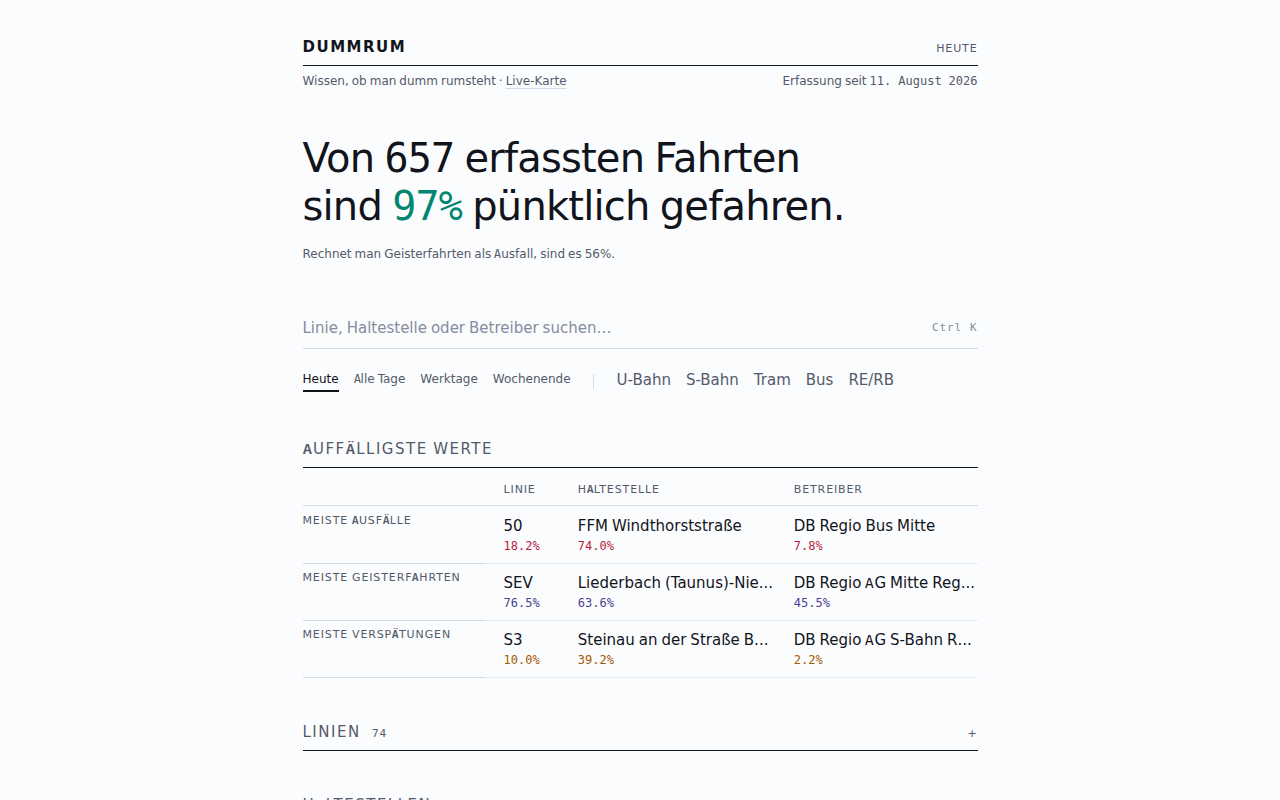
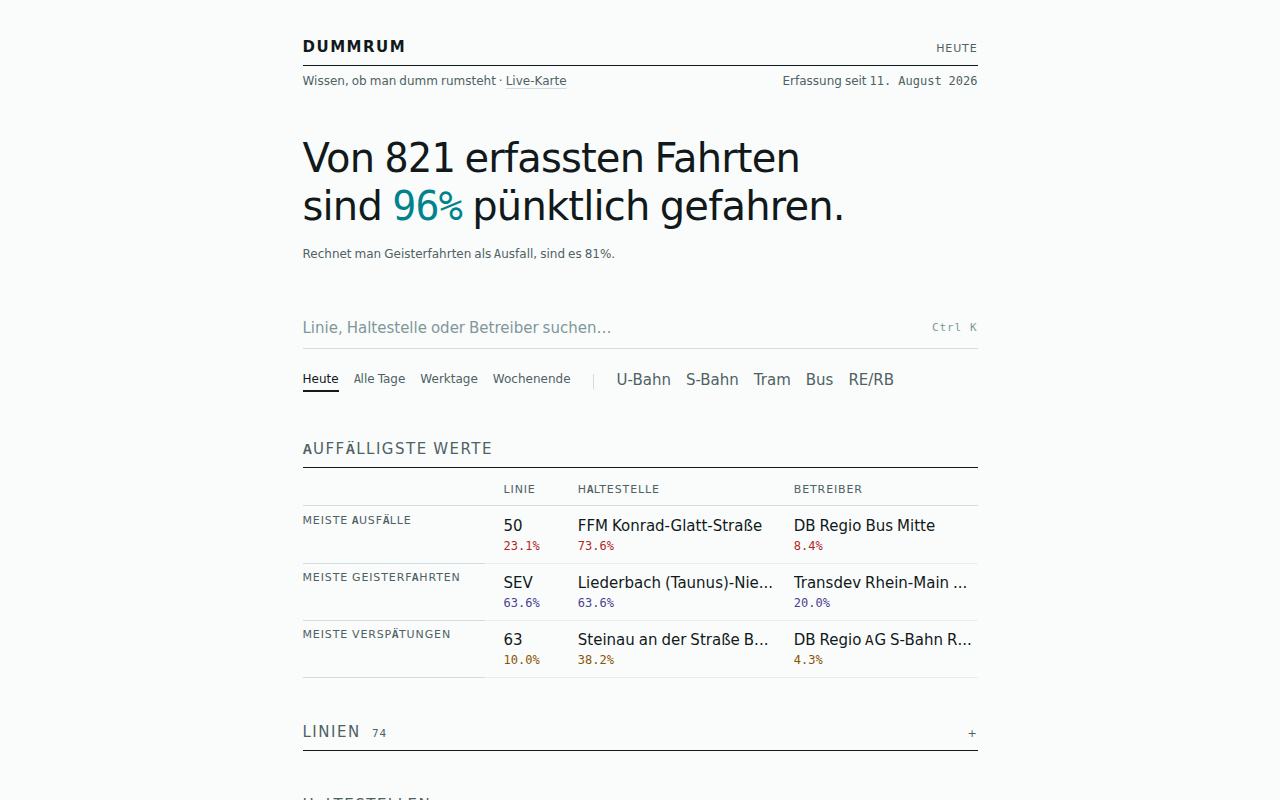
style: lead with the VGF teal instead of the RMV blue
VGF runs the U-Bahn and the trams this site watches most closely, so their
house colour is the more honest one to wear. Taken from their published
tokens rather than sampled off a screenshot: --bs-light becomes --surface,
--bs-primary becomes the "good" verdict, and the greys pick up the same
teal cast.

The accent is --bs-dark (#006265), not --bs-primary (#00838c). The primary
teal measures 4.41:1 on this paper, which fails AA for body text, and links
here are body text. The deeper teal is the same hue at 6.95. --bs-primary
still carries the "good" verdict, where it only ever renders at figure size
and so clears the large-text threshold.

Their yellow (--bs-secondary #fdc82f) is left out: 1.5:1 on paper, and this
report has no use for a colour that cannot state a verdict.

VGF publishes a light-mode palette only, so dark mode again keeps the hues
and lifts them until each clears AA rather than copying values never meant
for an inverted page.

Changed region(s): [[0.4688, 0.625, 0.5938, 0.6875], [0.2812, 0.1562, 0.375, 0.2812], [0.625, 0.7188, 0.75, 0.75]]

diff --git a/src/styles.css b/src/styles.css
@@ -20,7 +20,9 @@
 
    Fira Sans / Fira Mono are Spiekermann faces, the same lineage as German
    rail wayfinding — the subject's own typography, without imitating the
-   signage itself.
+   signage itself. The palette follows the same principle: it is built from
+   the VGF's own brand tokens, tinting the greys rather than dressing the
+   page in their livery.
 */
 
 @theme inline {
@@ -65,50 +67,54 @@
 :root {
 	color-scheme: light dark;
 
-	/* Neutrals carry a cool cast off --rmv-blue rather than the warm grey
-	 * they used to, so the page reads as belonging to the network it
-	 * reports on. The tint stays in the greys: the report is about the
-	 * RMV, not published by it, and a page in full brand livery would
-	 * claim otherwise. */
-	--paper: #fbfcfd;
-	--ink: #12141c;
-	--muted: #545a6b;
-	--dimmed: #858ca0;
-	--rule: #d3d9e6;
-	--rule-dim: #e7ebf3;
-	--surface: #eff4fa;
-	/* RMV's own --rmv-blue. */
-	--accent: #162a6b;
+	/* Neutrals carry a cool cast off the VGF teal rather than a neutral
+	 * grey, so the page reads as belonging to the network it reports on.
+	 * The tint stays in the greys: this is a report *about* the VGF, not
+	 * one published by them, and a page in full brand livery would claim
+	 * otherwise. */
+	--paper: #fafcfc;
+	--ink: #11191a;
+	--muted: #4f6163;
+	--dimmed: #7f9799;
+	--rule: #cfdedf;
+	--rule-dim: #e6eff0;
+	/* VGF's own --bs-light. */
+	--surface: #eef5f5;
+	/* VGF's --bs-dark, not their --bs-primary: the primary teal (#00838c)
+	 * measures 4.41:1 on this paper, which fails AA for body text, and
+	 * links here are body text. The deeper teal is the same hue at 6.95. */
+	--accent: #006265;
 
 	/* Verdict tones. Desaturated enough to sit inside running text at
 	 * body weight without turning the page into a status board.
 	 *
-	 * "Good" is RMV's --rmv-green and "bad" their alert red, so a verdict
-	 * is stated in the network's own vocabulary. Ghost keeps its violet:
-	 * it marks a trip that was never confirmed either way, which is not a
-	 * state the RMV palette has a colour for. */
-	--bad: #b81e40;
-	--mixed: #a35a00;
-	--good: #008671;
+	 * "Good" is VGF's --bs-primary itself: the house colour reads as the
+	 * approving one, and it only ever renders at figure size, where its
+	 * 4.41:1 clears the large-text threshold. Ghost keeps its violet — a
+	 * trip never confirmed either way is not a state the VGF palette has
+	 * a colour for. */
+	--bad: #b3261e;
+	--mixed: #8a5300;
+	--good: #00838c;
 	--ghost: #4b3f8f;
 
 	@media (prefers-color-scheme: dark) {
-		/* RMV publishes a light-mode palette only: --rmv-blue on this
-		 * background is 1.4:1, unreadable. Dark mode therefore keeps the
+		/* VGF publishes a light-mode palette only: --bs-dark on this
+		 * background is 2.6:1, unreadable. Dark mode therefore keeps the
 		 * hues and lifts the lightness until each clears AA, rather than
 		 * copying values that were never meant for an inverted page. */
-		--paper: #12151d;
-		--ink: #e4e7ee;
-		--muted: #98a0b4;
-		--dimmed: #69708a;
-		--rule: #2a3042;
-		--rule-dim: #1e2331;
-		--surface: #1a1f2b;
-		--accent: #8fa8e8;
+		--paper: #101617;
+		--ink: #e2e9ea;
+		--muted: #93a8aa;
+		--dimmed: #647a7c;
+		--rule: #263234;
+		--rule-dim: #1b2426;
+		--surface: #182122;
+		--accent: #4cc2c9;
 
 		--bad: #f28b82;
 		--mixed: #e0b354;
-		--good: #4fc3ae;
+		--good: #5fd0c4;
 		--ghost: #a99cf5;
 	}
 }

diff --git a/scripts/assets.ts b/scripts/assets.ts
@@ -68,25 +68,25 @@ export async function ogHtml(): Promise<string> {
 	return `<!doctype html><html lang="de"><meta charset="utf-8"><style>
 ${fonts}
 *{margin:0;padding:0;box-sizing:border-box}
-body{width:1200px;height:630px;background:#fbfcfd;color:#12141c;
+body{width:1200px;height:630px;background:#fafcfc;color:#11191a;
 	font-family:"Fira Sans",sans-serif;display:flex;flex-direction:column;
 	justify-content:space-between;padding:64px 76px;
 	-webkit-font-smoothing:antialiased}
 .eyebrow{font-size:21px;font-weight:500;text-transform:uppercase;
-	letter-spacing:.1em;color:#545a6b}
+	letter-spacing:.1em;color:#4f6163}
 h1{font-size:68px;line-height:1.1;letter-spacing:-.02em;font-weight:700;
 	margin-top:18px}
-.sub{font-size:26px;color:#545a6b;margin-top:20px;max-width:40ch;
+.sub{font-size:26px;color:#4f6163;margin-top:20px;max-width:40ch;
 	line-height:1.45}
-.rule{border-top:2px solid #12141c;padding-top:24px;display:flex;gap:56px}
+.rule{border-top:2px solid #11191a;padding-top:24px;display:flex;gap:56px}
 .metric{display:flex;flex-direction:column;gap:6px}
 .metric .label{font-size:18px;text-transform:uppercase;letter-spacing:.08em;
-	color:#545a6b}
+	color:#4f6163}
 .metric .word{font-family:"Fira Mono",monospace;font-size:30px}
-.bad{color:#b81e40}.ghost{color:#4b3f8f}.mixed{color:#a35a00}
+.bad{color:#b3261e}.ghost{color:#4b3f8f}.mixed{color:#8a5300}
 footer{display:flex;justify-content:space-between;align-items:baseline;
-	font-size:22px;color:#545a6b;border-top:1px solid #d3d9e6;padding-top:20px}
-footer .host{font-family:"Fira Mono",monospace;color:#12141c;font-size:24px}
+	font-size:22px;color:#4f6163;border-top:1px solid #cfdedf;padding-top:20px}
+footer .host{font-family:"Fira Mono",monospace;color:#11191a;font-size:24px}
 </style>
 <body>
 	<div>

diff --git a/src/routes/__root.tsx b/src/routes/__root.tsx
@@ -29,7 +29,7 @@ export const Route = createRootRoute({
 			{ property: "og:image:alt", content: "DummRum" },
 			{ name: "twitter:card", content: "summary_large_image" },
 			{ name: "twitter:image", content: OG_IMAGE },
-			{ name: "theme-color", content: "#fbfcfd" },
+			{ name: "theme-color", content: "#fafcfc" },
 			{
 				"script:ld+json": {
 					"@context": "https://schema.org",
